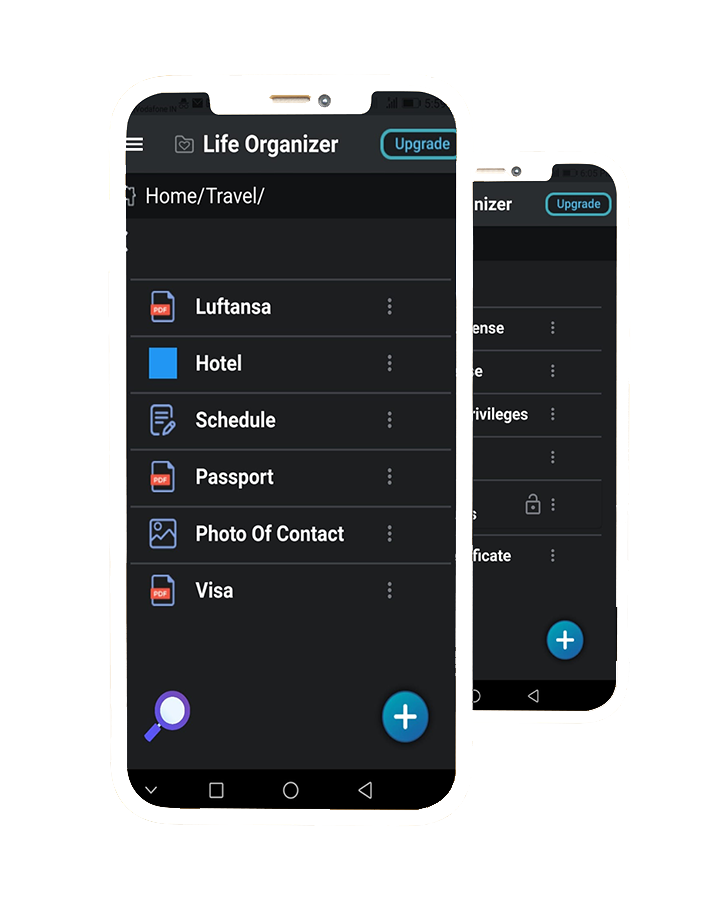
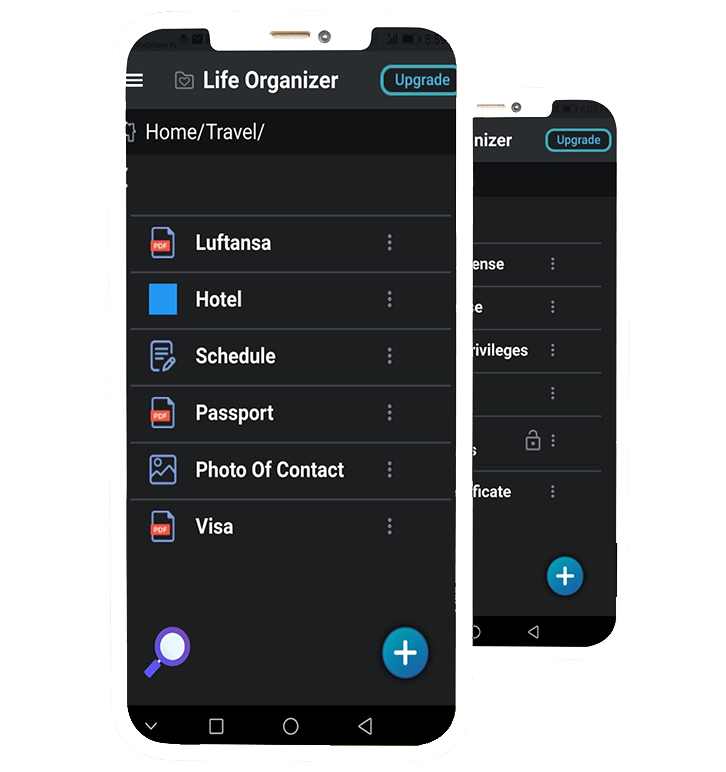
fix responsive

diff --git a/index.html b/index.html
@@ -95,14 +95,16 @@
                                 <img class="app-mobile-2" src="./assets/img/app-mobile-2.jpeg" alt="" width="420">
                             </p>
                         </div>
-                        <div class="col l-6 m-12 c-12">
+                        <div class="col l-6 m-12 c-12 left-mb">
                             <h2>Make your phone into a highly organized filing cabinet!</h2>
                             <p class="paragraph">This is the core principle of lifeorganizer. Allow me to explain. How many documents are there right now in your life? Your school and college certificates. Your professional license or licenses. Your driving license. Your
                                 ongoing training certificates. Your income expense files. Your passport and other travel documents, including your vaccination certificate. How many times have you had to search in your bag, your phone, in your laptop,
                                 or whereever else you put these things? Each time you have to dig up these documents and put all the needed documents in one place, it takes at least three and half hours of work on an average. And this does not even count
                                 the stress and aggravation. What if you could find all your documents neatly categorized, all ready to find, ready to send to someone, ready to print out, or just ready to show to someone, such as at an airport? The Life
                                 Organizer App does just that!</p>
-                            <a href="https://play.google.com/store/apps/details?id=com.life_organizer" class="btn download-btn">DOWNLOAD NOW!</a>
+                            <p class="wrap-button">
+                                <a href="https://play.google.com/store/apps/details?id=com.life_organizer" class="btn download-btn">DOWNLOAD NOW!</a>
+                            </p>
                         </div>
                     </div>
                 </div>
@@ -115,8 +117,7 @@
                         <div class="col l-6 m-12 c-12 left-mb">
                             <h2>The Missing Piece of the Android Puzzle: Now you got it!</h2>
                             <p class="paragraph">Your PC has windows explorer. What does your phone have? Nothing except Chaos! Not Anymore, all you need is Life Organizer to organize your phone.</p>
-                            <p>
-
+                            <p class="wrap-button">
                                 <a href="https://play.google.com/store/apps/details?id=com.life_organizer" class="btn download-btn">DOWNLOAD NOW!</a>
                             </p>
                         </div>
@@ -138,10 +139,12 @@
                                 <img class="app-mobile-2" src="./assets/img/bg-facebook.png" alt="Facebook" width="500">
                             </p>
                         </div>
-                        <div class="col l-6 m-12 c-12">
+                        <div class="col l-6 m-12 c-12 left-mb">
                             <h2>Convert Your Phone into a Filing Cabinet</h2>
                             <p class="paragraph">The Life Organizer converts your Smart Phone into a filing cabinet where everything has a place, everything is in its place, and you can find anything and everything on a moments notice</p>
-                            <a href="https://play.google.com/store/apps/details?id=com.life_organizer" class="btn download-btn">DOWNLOAD NOW!</a>
+                            <p class="wrap-button">
+                                <a href="https://play.google.com/store/apps/details?id=com.life_organizer" class="btn download-btn">DOWNLOAD NOW!</a>
+                            </p>
                         </div>
                     </div>
                 </div>
@@ -155,7 +158,9 @@
                             <h2>Life Organizer is all about Privacy</h2>
                             <p class="paragraph">Absolutely nothing is stored online. We do not and will not offer server space. It does not matter if you triple lock your server and hire twenty ninjas to protect it, any server can be hacked and your documents can be all
                                 over the web. The only safe custodian of your documents is YOU. Everything you store on Life Organizer stays on your phone. </p>
-                            <a href="https://play.google.com/store/apps/details?id=com.life_organizer" class="btn download-btn">DOWNLOAD NOW!</a>
+                            <p class="wrap-button">
+                                <a href="https://play.google.com/store/apps/details?id=com.life_organizer" class="btn download-btn">DOWNLOAD NOW!</a>
+                            </p>
                         </div>
                         <div class="col l-6 m-12 c-12">
                             <p class="edit-img">
@@ -209,8 +214,9 @@
                             <p class="paragraph">Documents, Images, Videos, Files of any kind. You can also grab pictures straight from your camera and add to relevant folders. </p>
                             <h3>Rule your documents to rule your life !</h3>
                             <p class="paragraph">There are a hundred ways in which you can use Life Organizer to organize all the papers in your life. Rule your documents , and you can rule your life!</p>
-
-                            <a href="https://play.google.com/store/apps/details?id=com.life_organizer" class="btn download-btn">DOWNLOAD NOW!</a>
+                            <p class="wrap-button">
+                                <a href="https://play.google.com/store/apps/details?id=com.life_organizer" class="btn download-btn">DOWNLOAD NOW!</a>
+                            </p>
                         </div>
                         <div class="col l-6 m-12 c-12">
                             <p class="edit-img">

diff --git a/assets/css/responsive.css b/assets/css/responsive.css
@@ -1,8 +1,36 @@
 /* Ipad pro */
 
 @media (min-width: 1024px) and (max-width: 1366px) {
+    .section-organized.organized-first .row {
+        display: flex;
+        flex-direction: column-reverse;
+        justify-content: center;
+        align-items: center;
+    }
+    .section-organized.organized-third .row {
+        display: flex;
+        flex-direction: column-reverse;
+        justify-content: center;
+        align-items: center;
+    }
+    .section-organized.organized-five .row {
+        display: flex;
+        flex-direction: column-reverse;
+        justify-content: center;
+        align-items: center;
+    }
+    .section-organized {
+        padding: 10px 0;
+    }
+    .section-organized p.edit-img {
+        text-align: center;
+        margin: 0;
+    }
     .left-mb {
-        margin-bottom: 30px;
+        margin-bottom: 26px;
+    }
+    .download-btn {
+        margin-top: 4px;
     }
     footer {
         padding: 60px 80px;
@@ -18,10 +46,38 @@
         font-size: 16px;
     }
     .left-mb {
-        margin-bottom: 30px;
+        margin-bottom: 26px;
     }
     .main-content {
         padding: 50px 40px;
+    }
+    .main-quote .row {
+        margin-bottom: -10px;
+    }
+    .section-organized.organized-first .row {
+        display: flex;
+        flex-direction: column-reverse;
+        justify-content: center;
+        align-items: center;
+    }
+    .section-organized.organized-third .row {
+        display: flex;
+        flex-direction: column-reverse;
+        justify-content: center;
+        align-items: center;
+    }
+    .section-organized.organized-five .row {
+        display: flex;
+        flex-direction: column-reverse;
+        justify-content: center;
+        align-items: center;
+    }
+    .section-organized {
+        padding: 10px 0;
+    }
+    .section-organized p.edit-img {
+        text-align: center;
+        margin: 0;
     }
     .section-organized img {
         max-width: 100%;
@@ -42,6 +98,9 @@
     .content-text {
         flex-direction: column;
         padding-bottom: 0px;
+    }
+    .wrap-button {
+        margin: 0;
     }
 }
 
@@ -67,6 +126,29 @@
     iframe {
         width: 100%;
     }
+    .main-content {
+        padding: 40px 26px;
+    }
+    .section-organized h2 {
+        font-size: 26px;
+        text-align: center;
+    }
+    .section-organized h3 {
+        font-size: 24px;
+        text-align: center;
+    }
+    .section-organized p.paragraph {
+        text-align: center;
+    }
+    .section-organized.main-quote .left-mb {
+        margin-bottom: 20px;
+    }
+    .wrap-button {
+        text-align: center;
+    }
+    .download-btn {
+        margin-top: 0;
+    }
     footer {
         padding: 40px 20px;
         text-align: center;
@@ -77,15 +159,16 @@
 /* Small Mobile */
 
 @media (max-width: 550px) {
+    .main-content {
+        padding: 40px 20px;
+    }
     .main-quote .edit-img {
         display: flex;
         justify-content: center;
     }
     .main-quote .edit-img img {
-        max-width: 400px;
+        max-width: 460px;
         object-fit: contain;
-        margin-top: -60px;
-        margin-bottom: -60px;
     }
 }
 
@@ -105,10 +188,8 @@
         justify-content: center;
     }
     .main-quote .edit-img img {
-        max-width: 400px;
+        max-width: 460px;
         object-fit: contain;
-        margin-top: -60px;
-        margin-bottom: -60px;
     }
 }
 

diff --git a/how-it-works.html b/how-it-works.html
@@ -75,10 +75,11 @@
             <div class="grid">
                 <div class="row">
                     <div class="col l-12 m-12 c-12">
-                        <iframe width="560" height="315" src="https://www.youtube.com/embed/DGIXT7ce3vQ?controls=1" 
+                        <!-- <iframe width="560" height="315" src="https://www.youtube.com/embed/DGIXT7ce3vQ?controls=1" 
                         title="YouTube video player" frameborder="0" 
                         allow="accelerometer; autoplay; clipboard-write; encrypted-media; gyroscope; picture-in-picture" allowfullscreen="">
-                    </iframe>
+                    </iframe> -->
+                        <iframe width="560" height="315" src="https://www.youtube.com/embed/MU4ylaInOU8" title="YouTube video player" frameborder="0" allow="accelerometer; autoplay; clipboard-write; encrypted-media; gyroscope; picture-in-picture" allowfullscreen></iframe>
                     </div>
                 </div>
             </div>
